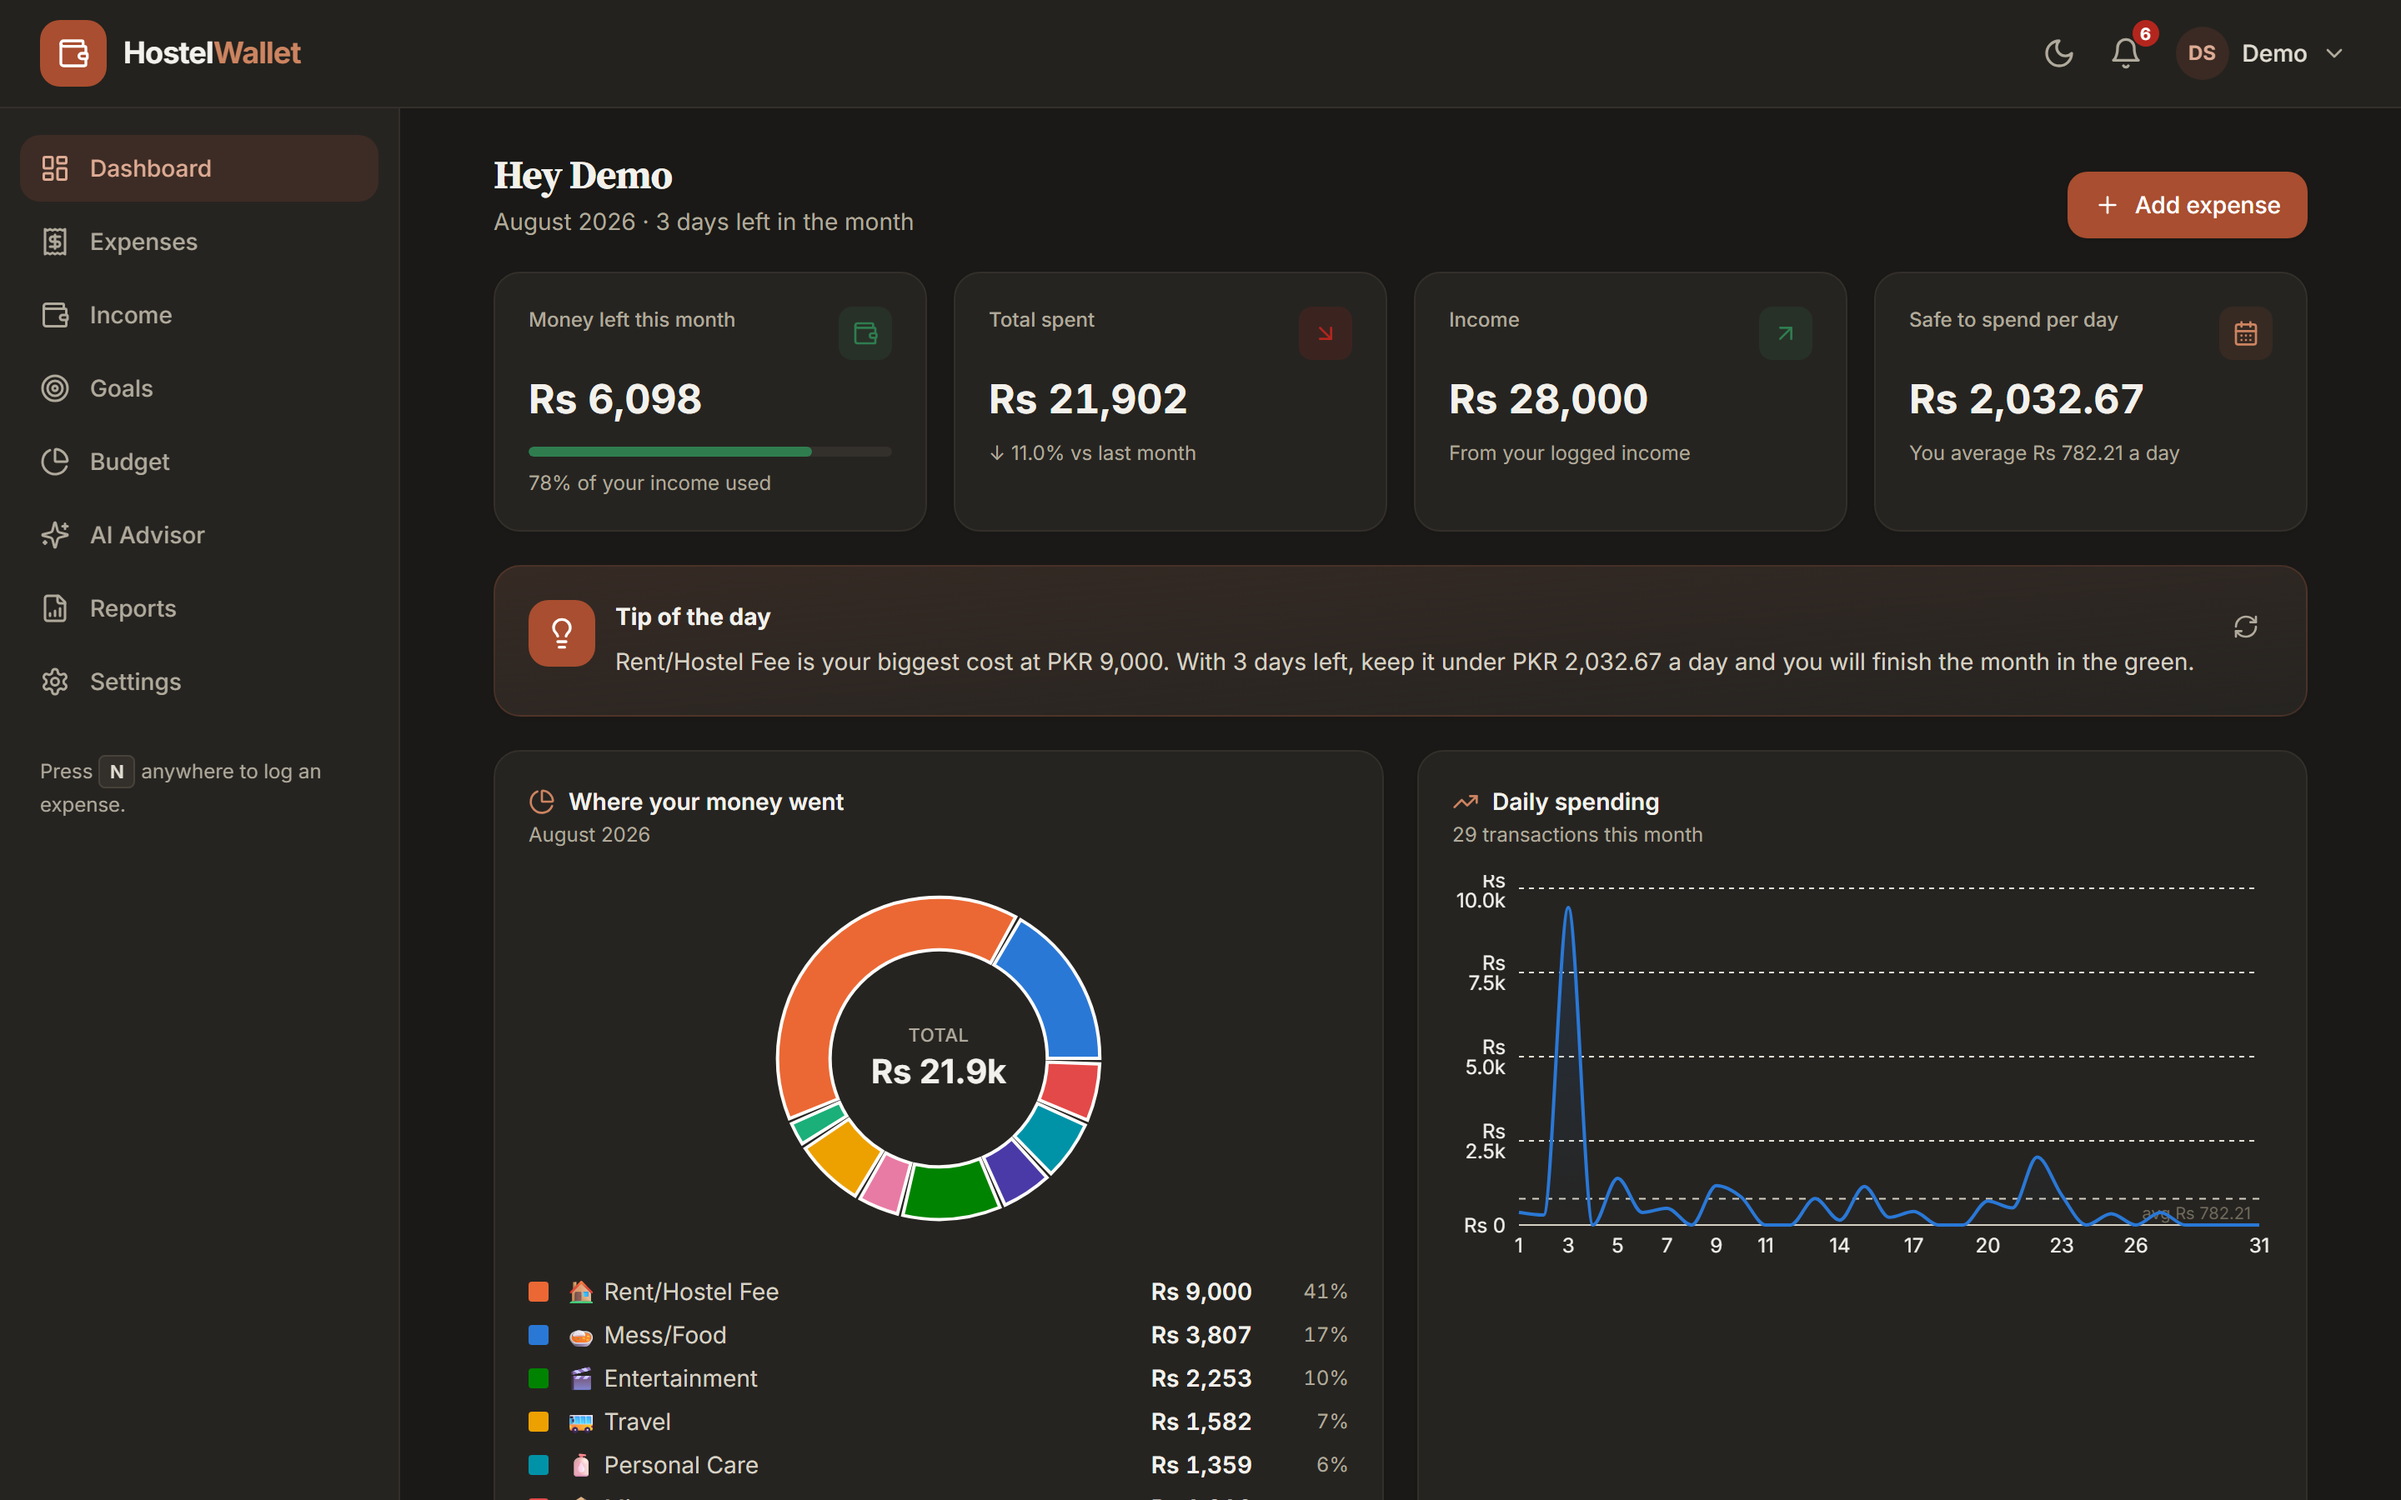
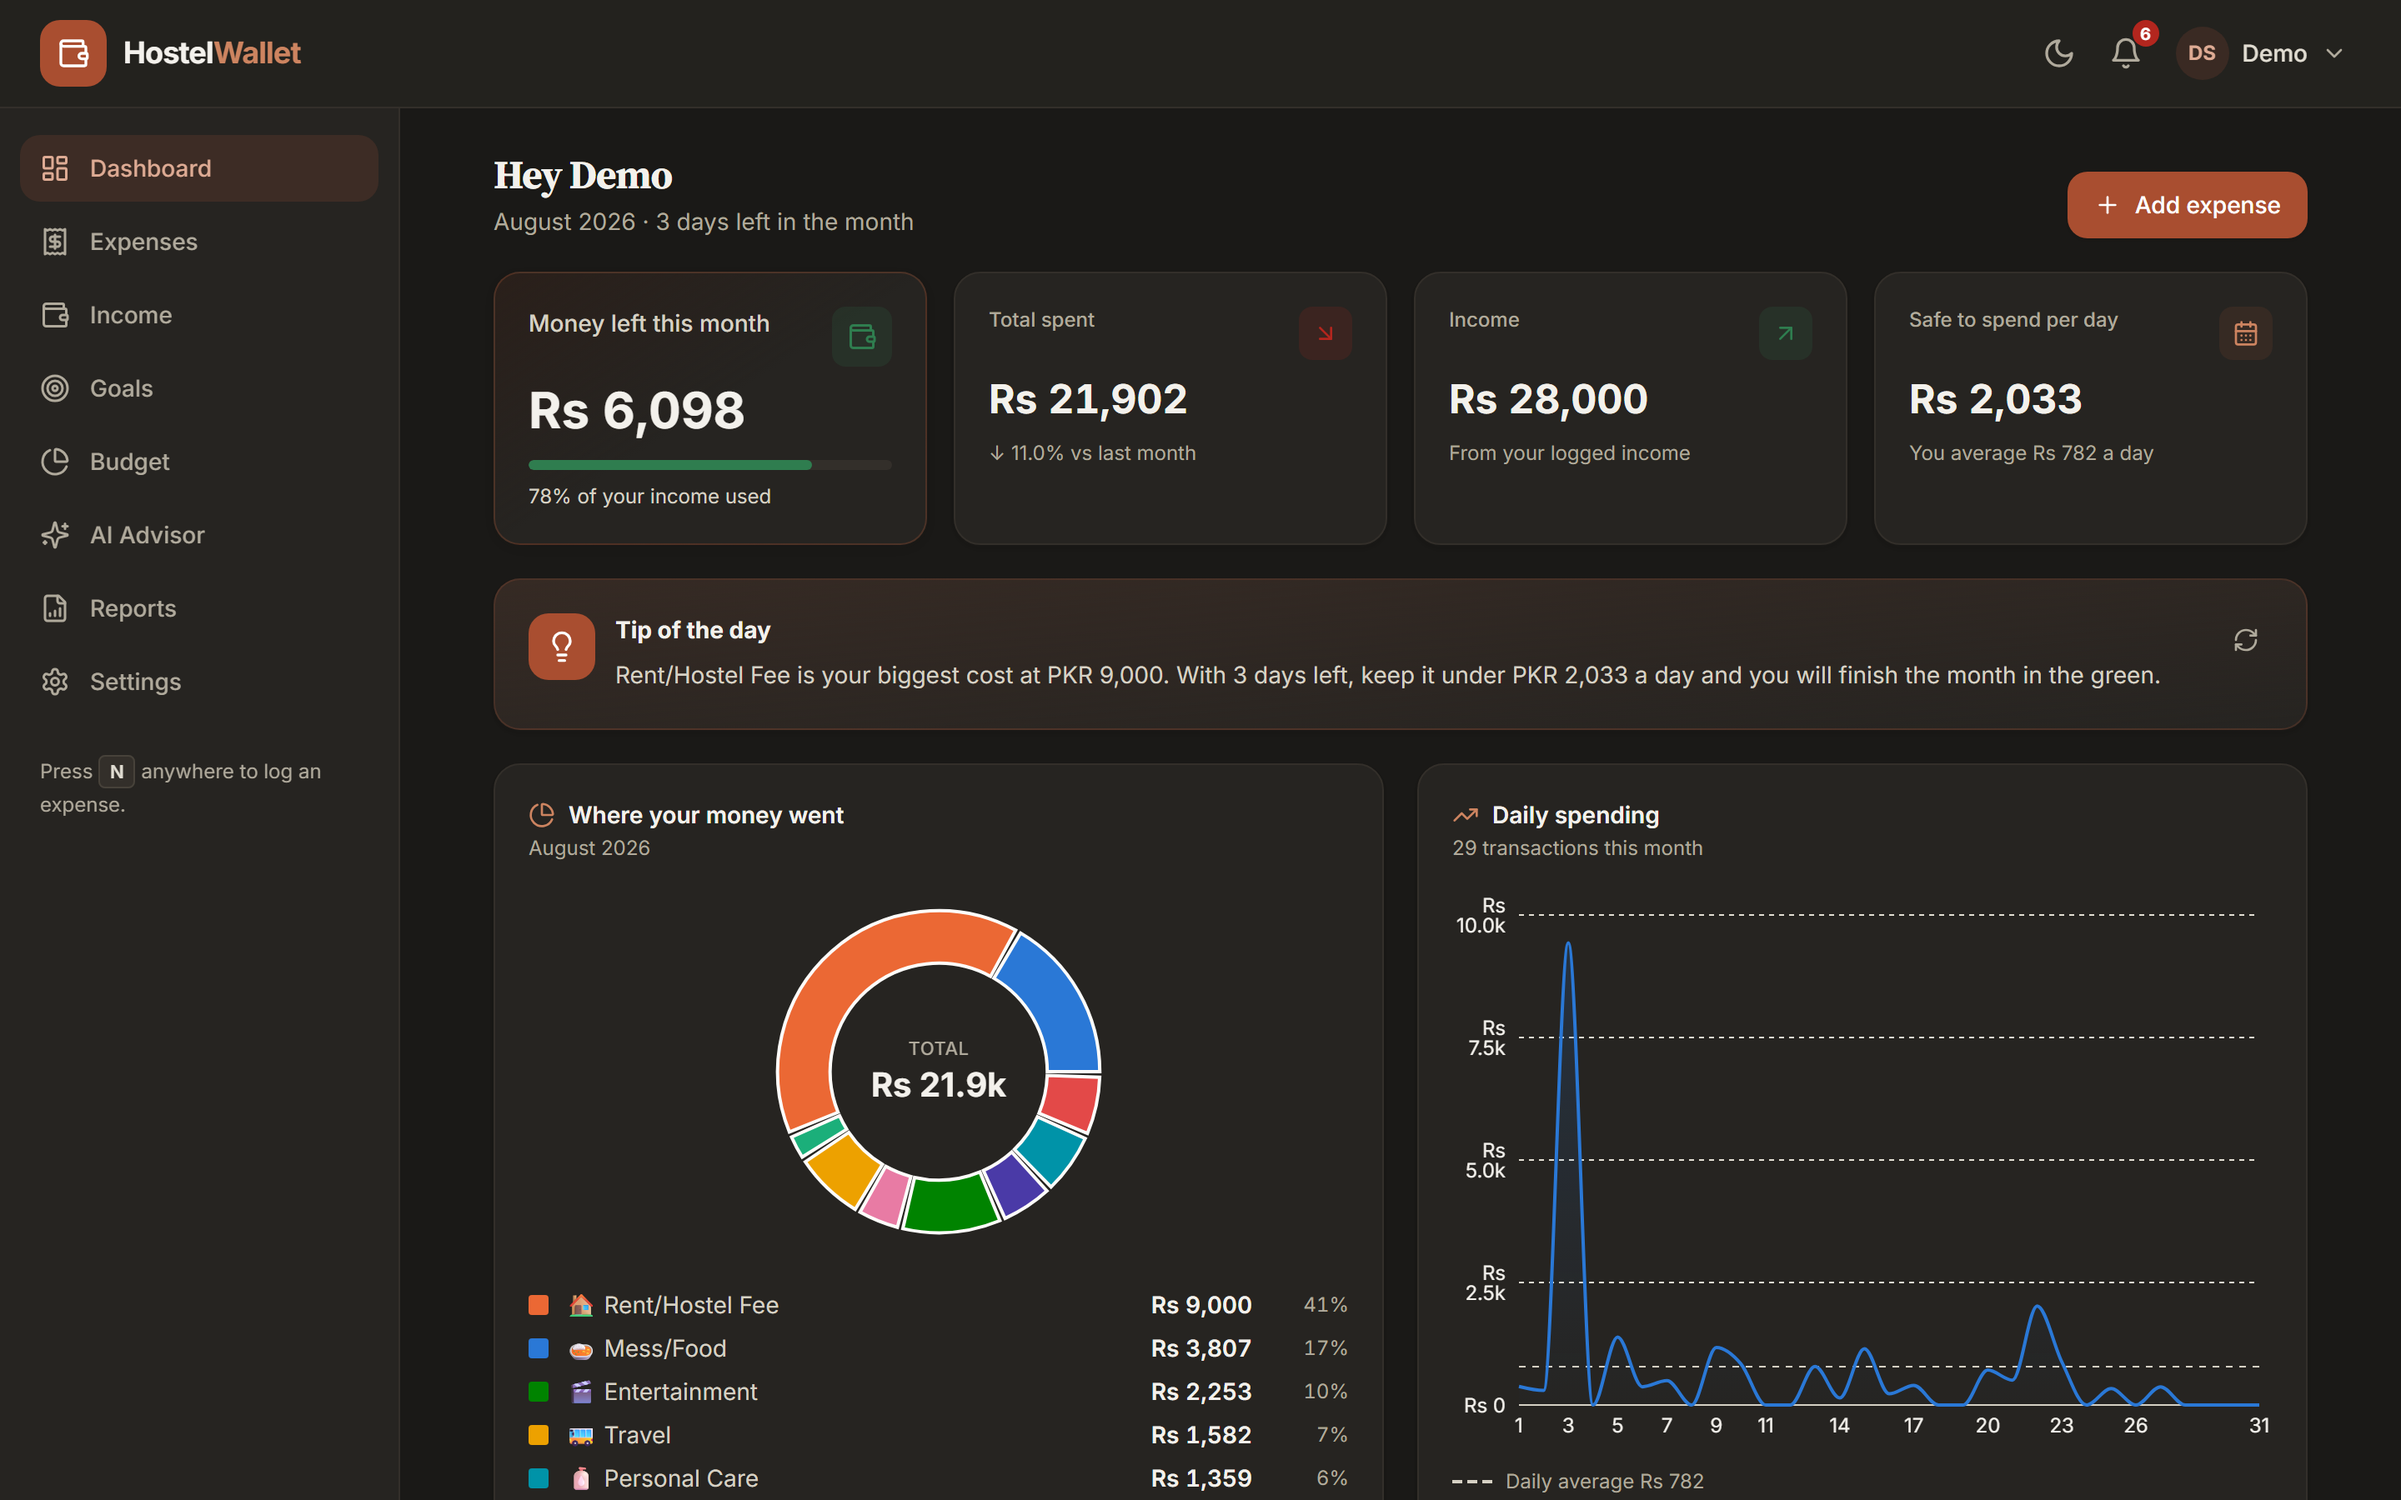
Give the dashboard a visual hierarchy and fix four rendering faults
Found by screenshotting the running app rather than reading the markup.
The colour system is untouched - the nine category hues were validated for
colour-vision deficiency and contrast against these exact surfaces, so this
is spacing, elevation and hierarchy only.

Hierarchy
- Four identically styled tiles gave "money left this month" exactly as much
  weight as "safe to spend per day" and left the reader to do the ranking.
  StatCard gained a `hero` variant - brand-tinted, larger figure, lifted -
  for the one number the app was opened to see.
- A four-step elevation scale, tinted with the page's own warm ink. A grey
  shadow on a cream page reads as dirt, which is most of what makes a warm
  palette look cheap.

Rendering faults
- The trend chart's average label was pinned to the plot edge by Recharts,
  where it landed on the series and the axis ticks whenever the average sat
  low - which, for a month with one big bill, is most of the time. It is now
  a caption under the chart, which cannot collide.
- The highest y-axis label was clipped by the card edge.
- Money showed stray paisa: the dashboard read "Rs 2,032.67" while the AI tip
  beside it said "PKR 2,032.67" and both should be Rs 2,033. StatCard takes a
  `decimals` prop and the advisor's money formatter now rounds - two spellings
  of one figure read as a bug.
- The chart card beside the donut was short enough to leave dead space, since
  the donut's legend runs a row per category.

Phone
[…]

diff --git a/frontend/src/components/dashboard/StatCard.jsx b/frontend/src/components/dashboard/StatCard.jsx
@@ -12,39 +12,77 @@ const TONES = {
 /**
  * Headline number tile. A number this important is not a chart - it is a big
  * figure with a label, optionally with a progress bar and a footnote.
+ *
+ * `hero` marks the one figure the student opened the app to see. Without it a
+ * row of four identical tiles gives "money left this month" exactly as much
+ * weight as "safe to spend per day", and leaves the reader to do the ranking.
+ *
+ * `decimals` exists because student money is round money: a daily allowance
+ * reads as Rs 2,033, not Rs 2,032.67. Pass 2 where the paisa genuinely matter.
  */
 export default function StatCard({
   label,
   value,
-  currency = 'INR',
+  currency = 'PKR',
   raw = false,
+  decimals,
   icon: Icon,
   tone = 'brand',
+  hero = false,
   progress,
   progressTone,
   footnote,
   className = '',
 }) {
   return (
-    <div className={cn('hw-card p-5', className)}>
+    <div className={cn(hero ? 'hw-card-hero p-5' : 'hw-card p-5', className)}>
       <div className="flex items-start justify-between gap-2">
-        <p className="text-xs font-medium leading-snug text-slate-500 dark:text-slate-400">{label}</p>
+        <p
+          className={cn(
+            'font-medium leading-snug',
+            hero
+              ? 'text-sm text-slate-600 dark:text-slate-300'
+              : 'text-xs text-slate-500 dark:text-slate-400'
+          )}
+        >
+          {label}
+        </p>
         {Icon && (
-          <span className={cn('flex h-8 w-8 items-center justify-center rounded-lg', TONES[tone])}>
-            <Icon className="h-4 w-4" aria-hidden="true" />
+          <span
+            className={cn(
+              'flex shrink-0 items-center justify-center rounded-lg',
+              hero ? 'h-9 w-9' : 'h-8 w-8',
+              TONES[tone]
+            )}
+          >
+            <Icon className={hero ? 'h-[18px] w-[18px]' : 'h-4 w-4'} aria-hidden="true" />
           </span>
         )}
       </div>
 
-      <p className="mt-2 break-words text-lg font-extrabold tabular-nums text-slate-900 sm:text-2xl dark:text-slate-100">
-        {raw ? value : formatMoney(value, currency)}
+      <p
+        className={cn(
+          'mt-2 break-words font-extrabold tabular-nums text-slate-900 dark:text-slate-100',
+          hero ? 'text-2xl sm:text-3xl' : 'text-lg sm:text-2xl'
+        )}
+      >
+        {raw ? value : formatMoney(value, currency, { decimals })}
       </p>
 
       {progress !== undefined && (
         <ProgressBar value={progress} tone={progressTone || tone} size="sm" className="mt-3" label={label} />
       )}
 
-      {footnote && <p className="mt-2 text-xs text-slate-500 dark:text-slate-400">{footnote}</p>}
+      {footnote && (
+        <p
+          className={cn(
+            'mt-2 text-xs',
+            hero ? 'text-slate-600 dark:text-slate-300' : 'text-slate-500 dark:text-slate-400'
+          )}
+        >
+          {footnote}
+        </p>
+      )}
     </div>
   );
 }

diff --git a/frontend/src/pages/Dashboard.jsx b/frontend/src/pages/Dashboard.jsx
@@ -87,17 +87,23 @@ export default function Dashboard() {
           totals.daysLeftInMonth === 1 ? '' : 's'
         } left in the month`}
       >
-        <Button icon={Plus} onClick={() => setAddOpen(true)}>
+        {/* Hidden on phones: the raised button in the tab bar does this job,
+            and two buttons for one action just costs a screenful of space. */}
+        <Button icon={Plus} onClick={() => setAddOpen(true)} className="hidden sm:inline-flex">
           Add expense
         </Button>
       </PageHeader>
 
-      {/* Headline numbers */}
-      <section className="grid grid-cols-1 gap-4 sm:grid-cols-2 lg:grid-cols-4">
+      {/* Headline numbers. Two across on a phone: full-width tiles turned four
+          figures into four screenfuls of scrolling to reach the charts. */}
+      <section className="grid grid-cols-2 gap-3 sm:gap-4 lg:grid-cols-4">
+        {/* The reason the app was opened, so it does not look like the other three. */}
         <StatCard
+          hero
           label="Money left this month"
           value={totals.remaining}
           currency={currency}
+          decimals={0}
           icon={Wallet}
           tone={overspending ? 'danger' : totals.spentPercent > 80 ? 'caution' : 'safe'}
           progress={Math.min(100, totals.spentPercent)}
@@ -107,7 +113,7 @@ export default function Dashboard() {
               ? 'You are over your income for this month'
               : `${totals.spentPercent}% of your income used`
           }
-          className="sm:col-span-2 lg:col-span-1"
+          className="col-span-2 lg:col-span-1"
         />
 
         <StatCard
@@ -138,9 +144,12 @@ export default function Dashboard() {
           label="Safe to spend per day"
           value={totals.safeDailySpend}
           currency={currency}
+          decimals={0}
           icon={CalendarDays}
           tone="brand"
-          footnote={`You average ${formatMoney(totals.dailyAverage, currency)} a day`}
+          footnote={`You average ${formatMoney(totals.dailyAverage, currency, { decimals: 0 })} a day`}
+          // Third of three secondary tiles, so it takes the orphan row alone.
+          className="max-lg:col-span-2"
         />
       </section>
 
@@ -159,7 +168,9 @@ export default function Dashboard() {
             subtitle={`${totals.expenseCount} transaction${totals.expenseCount === 1 ? '' : 's'} this month`}
             icon={TrendingUp}
           />
-          <TrendChart data={trend} currency={currency} average={totals.dailyAverage} />
+          {/* Taller than the default: it sits beside the donut, whose legend
+              runs one row per category, and a short chart left dead space. */}
+          <TrendChart data={trend} currency={currency} average={totals.dailyAverage} height={340} />
         </Card>
       </section>
 

diff --git a/frontend/src/components/charts/TrendChart.jsx b/frontend/src/components/charts/TrendChart.jsx
@@ -37,9 +37,11 @@ export default function TrendChart({ data = [], currency = 'INR', average = 0, h
   }
 
   return (
-    <div style={{ height }}>
+    <div>
+      <div style={{ height }}>
       <ResponsiveContainer width="100%" height="100%">
-        <AreaChart data={data} margin={{ top: 8, right: 8, bottom: 0, left: -12 }}>
+        {/* top:16 keeps the highest y-axis label off the card's edge. */}
+        <AreaChart data={data} margin={{ top: 16, right: 8, bottom: 0, left: -12 }}>
           <defs>
             <linearGradient id="hw-trend-fill" x1="0" y1="0" x2="0" y2="1">
               <stop offset="0%" stopColor={seriesColor} stopOpacity={0.28} />
@@ -65,19 +67,14 @@ export default function TrendChart({ data = [], currency = 'INR', average = 0, h
             tickFormatter={(value) => formatMoney(value, currency, { compact: true })}
           />
 
-          {average > 0 && (
-            <ReferenceLine
-              y={average}
-              stroke={ink.axis}
-              strokeDasharray="4 4"
-              label={{
-                value: `avg ${formatMoney(average, currency, { compact: true })}`,
-                position: 'insideTopRight',
-                fill: ink.muted,
-                fontSize: 10,
-              }}
-            />
-          )}
+          {/*
+            The line carries no inline label. Recharts pins a reference-line
+            label to the plot edge, where it lands on top of the series and the
+            axis ticks whenever the average sits low - which, for a month with
+            one big bill and lots of small days, is most of the time. The
+            caption under the chart says the same thing with room to say it.
+          */}
+          {average > 0 && <ReferenceLine y={average} stroke={ink.axis} strokeDasharray="4 4" />}
 
           <Tooltip
             cursor={{ stroke: ink.axis, strokeWidth: 1 }}
@@ -97,6 +94,18 @@ export default function TrendChart({ data = [], currency = 'INR', average = 0, h
           />
         </AreaChart>
       </ResponsiveContainer>
+      </div>
+
+      {average > 0 && (
+        <p className="mt-2 flex items-center gap-2 text-xs text-slate-500 dark:text-slate-400">
+          <span
+            className="inline-block h-0 w-6 shrink-0 border-t-2 border-dashed"
+            style={{ borderColor: ink.axis }}
+            aria-hidden="true"
+          />
+          Daily average {formatMoney(average, currency, { decimals: 0 })}
+        </p>
+      )}
     </div>
   );
 }

diff --git a/frontend/src/index.css b/frontend/src/index.css
@@ -76,8 +76,19 @@
 @layer components {
   /* Surfaces are separated by a hairline, not a drop shadow. */
   .hw-card {
-    @apply rounded-2xl border border-slate-200 bg-canvas-card shadow-card;
+    @apply rounded-2xl border border-slate-200 bg-canvas-card shadow-raised;
     @apply dark:border-slate-800 dark:bg-canvas-darkCard;
+  }
+
+  /**
+   * The one card on a screen carrying the number the student actually came
+   * for. Four identically-styled tiles make the reader do the ranking; this
+   * does it for them.
+   */
+  .hw-card-hero {
+    @apply rounded-2xl border border-brand-200 shadow-lift;
+    @apply bg-gradient-to-br from-brand-50 via-canvas-card to-canvas-card;
+    @apply dark:border-brand-500/25 dark:from-brand-500/10 dark:via-canvas-darkCard dark:to-canvas-darkCard;
   }
 
   .hw-input {

diff --git a/backend/services/aiService.js b/backend/services/aiService.js
@@ -83,8 +83,15 @@ const assertAnswered = (response) => {
 // naturally with western grouping (125,000).
 const localeFor = (currency) => (currency === 'INR' ? 'en-IN' : currency === 'PKR' ? 'en-PK' : 'en-US');
 
+/**
+ * Money as the advisor should say it: whole units, no paisa.
+ *
+ * Student money is round money. "Keep it under PKR 2,032.67 a day" is both
+ * unsayable and slightly absurd advice, and the dashboard tile beside it shows
+ * PKR 2,033 - two different numbers for the same figure reads as a bug.
+ */
 const money = (currency, n) =>
-  `${currency} ${round2(n || 0).toLocaleString(localeFor(currency))}`;
+  `${currency} ${Math.round(Number(n) || 0).toLocaleString(localeFor(currency))}`;
 
 /**
  * Renders the caller's spending snapshot as a compact, readable block of text.

diff --git a/frontend/src/pages/Expenses.jsx b/frontend/src/pages/Expenses.jsx
@@ -115,7 +115,8 @@ export default function Expenses() {
             : undefined
         }
       >
-        <Button icon={Plus} onClick={openNew}>
+        {/* The tab bar's raised button already covers this on a phone. */}
+        <Button icon={Plus} onClick={openNew} className="hidden sm:inline-flex">
           Add expense
         </Button>
       </PageHeader>
